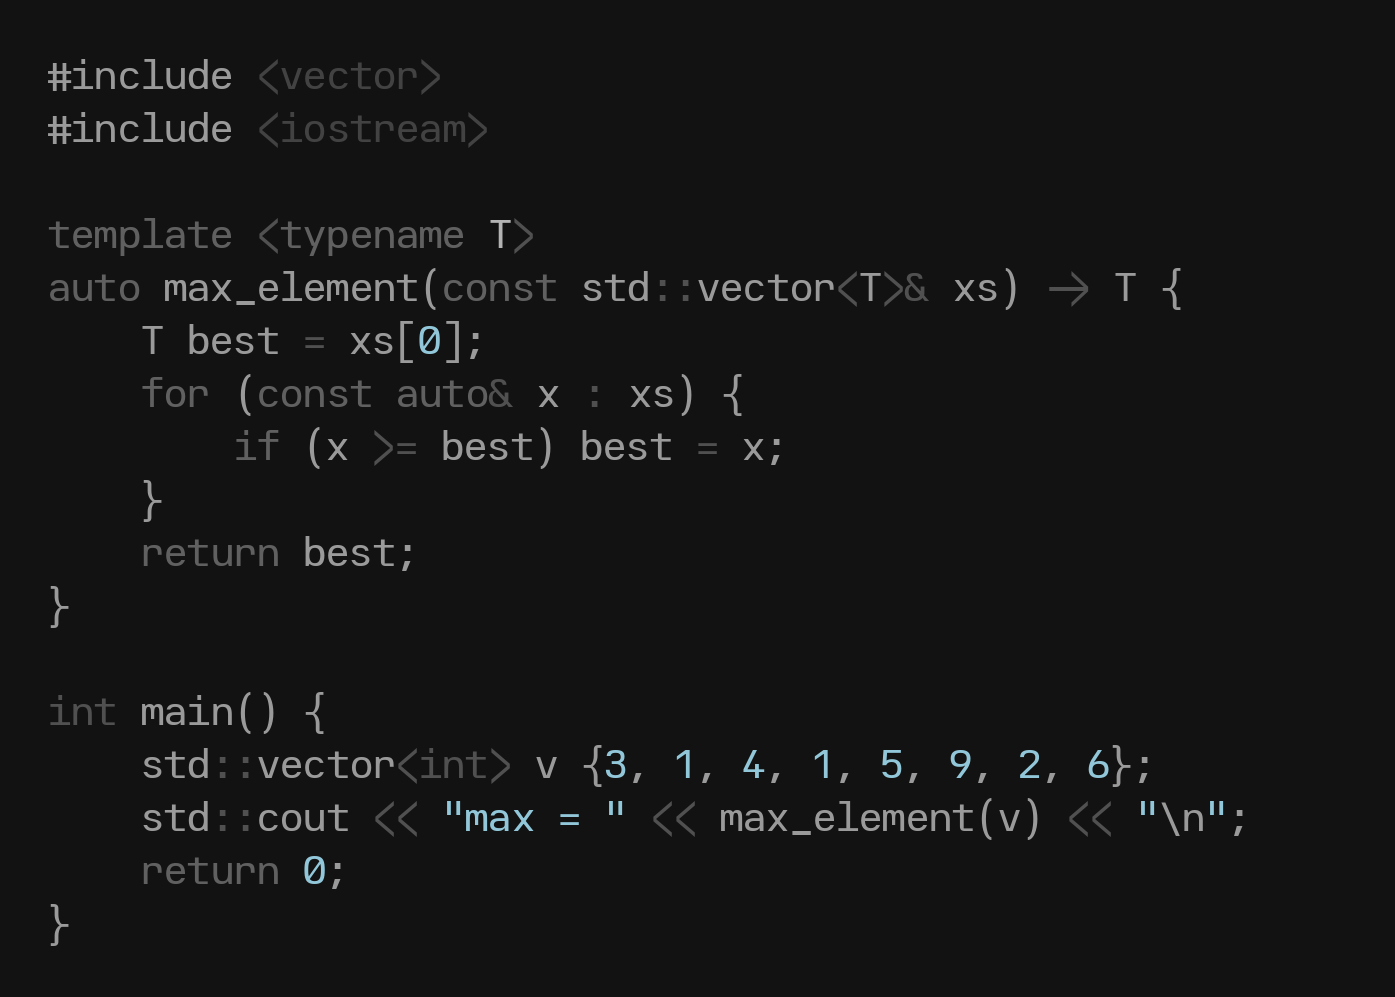
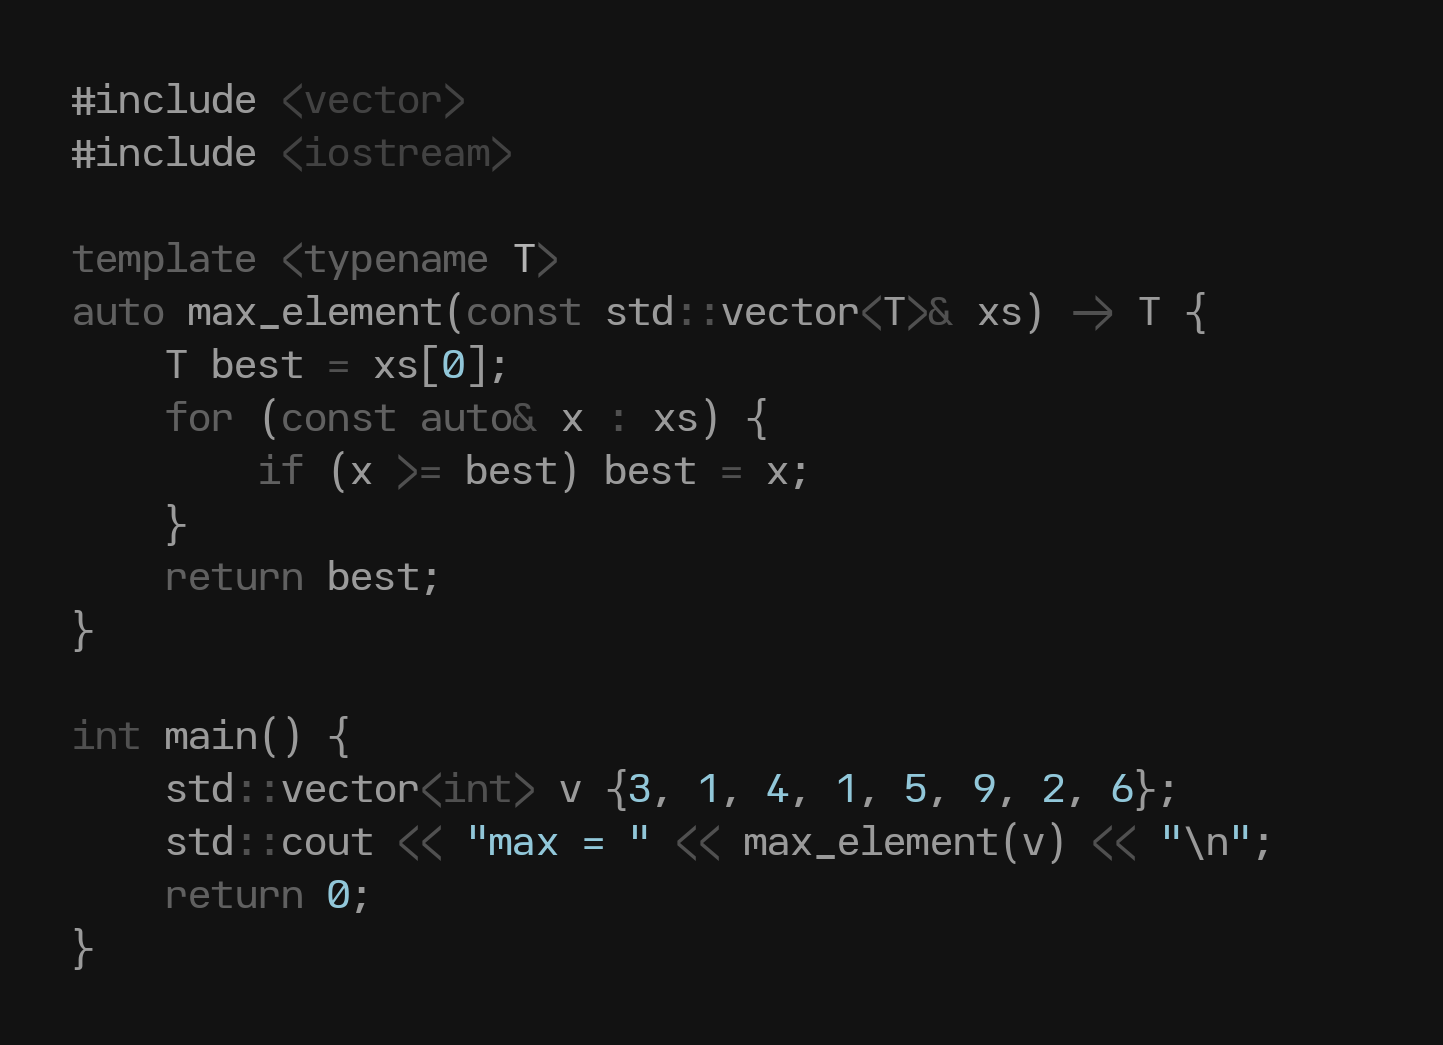
add: extra samples

diff --git a/src/scripts/samples.py b/src/scripts/samples.py
@@ -11,11 +11,18 @@ from PIL import Image, ImageDraw, ImageFont
 from pygments import highlight
 from pygments.filters import TokenMergeFilter
 from pygments.formatters import ImageFormatter
-from pygments.lexers import CppLexer, HaskellLexer, PythonLexer
+from pygments.lexers import (
+    CppLexer,
+    HaskellLexer,
+    MarkdownLexer,
+    PythonLexer,
+    TextLexer,
+)
 from pygments.style import Style
 from pygments.token import (
     Comment,
     Error,
+    Generic,
     Keyword,
     Name,
     Number,
@@ -70,48 +77,57 @@ class GravityNoirStyle(Style):
     highlight_color = NOIR_8
 
     styles = {
-        Text:                       FG,
-
-        Comment:                    f"italic {NOIR_7}",
-        Comment.Preproc:            NOIR_2,
-
-        Keyword:                    NOIR_5,
-        Keyword.Constant:           PRIMARY,                   # True / False / None
-        Keyword.Namespace:          NOIR_6,                    # import / from
-        Keyword.Pseudo:             NOIR_5,
-        Keyword.Reserved:           NOIR_5,
-        Keyword.Type:               NOIR_6,
-
-        Operator:                   NOIR_6,
-        Operator.Word:              NOIR_5,                    # and / or / not
-
-        Punctuation:                NOIR_2,
-
-        Name:                       NOIR_2,
-        Name.Function:              f"bold {FG}",
-        Name.Function.Magic:        f"bold {NOIR_2}",
-        Name.Class:                 NOIR_1,
-        Name.Builtin:               NOIR_2,
-        Name.Builtin.Pseudo:        NOIR_2,                    # self / cls
-        Name.Decorator:             f"bold {PRIMARY}",
-        Name.Namespace:             NOIR_2,
-        Name.Variable:              NOIR_2,
-        Name.Variable.Magic:        NOIR_2,                    # __name__ / __init__
-        Name.Constant:              NOIR_2,
-        Name.Attribute:             NOIR_2,
-        Name.Tag:                   NOIR_6,
-        Name.Exception:             NOIR_2,
-
-        String:                     PRIMARY,
-        String.Doc:                 f"italic {PRIMARY}",
-        String.Escape:              NOIR_2,
-        String.Interpol:            NOIR_2,
-        String.Affix:               NOIR_5,                    # f / r / b prefix
-
-        Number:                     PRIMARY,
-
-        Error:                      PRIMARY,
+        Text: FG,
+        Comment: f"italic {NOIR_7}",
+        Comment.Preproc: NOIR_2,
+        Keyword: NOIR_5,
+        Keyword.Constant: PRIMARY,  # True / False / None
+        Keyword.Namespace: NOIR_6,  # import / from
+        Keyword.Pseudo: NOIR_5,
+        Keyword.Reserved: NOIR_5,
+        Keyword.Type: NOIR_6,
+        Operator: NOIR_6,
+        Operator.Word: NOIR_5,  # and / or / not
+        Punctuation: NOIR_2,
+        Name: NOIR_2,
+        Name.Function: f"bold {FG}",
+        Name.Function.Magic: f"bold {NOIR_2}",
+        Name.Class: NOIR_1,
+        Name.Builtin: NOIR_2,
+        Name.Builtin.Pseudo: NOIR_2,  # self / cls
+        Name.Decorator: f"bold {PRIMARY}",
+        Name.Namespace: NOIR_2,
+        Name.Variable: NOIR_2,
+        Name.Variable.Magic: NOIR_2,  # __name__ / __init__
+        Name.Constant: NOIR_2,
+        Name.Attribute: NOIR_2,
+        Name.Tag: NOIR_6,
+        Name.Exception: NOIR_2,
+        String: PRIMARY,
+        String.Doc: f"italic {PRIMARY}",
+        String.Escape: NOIR_2,
+        String.Interpol: NOIR_2,
+        String.Affix: NOIR_5,  # f / r / b prefix
+        Number: PRIMARY,
+        Error: PRIMARY,
+        Generic.Heading: f"bold {FG_BRIGHT}",
+        Generic.Subheading: f"bold {NOIR_1}",
+        Generic.Strong: f"bold {FG}",
+        Generic.Emph: f"italic {NOIR_2}",
+        Generic.Inserted: PRIMARY,
+        Generic.Deleted: CONTRAST,
     }
+
+
+SAMPLE_CHAR = """\
+LETTERS
+——————————————————————————
+ABCDEFGHIJKLMNOPQRSTUVWXYZ abcdefghijklmnopqrstuvwxyz
+
+NUMBERS
+——————————————————————————
+0123456789
+"""
 
 
 SAMPLE_1 = '''\
@@ -128,7 +144,7 @@ if __name__ == "__main__":
 '''
 
 
-SAMPLE_2 = '''\
+SAMPLE_2 = """\
 #include <vector>
 #include <iostream>
 
@@ -146,10 +162,10 @@ int main() {
     std::cout << "max = " << max_element(v) << "\\n";
     return 0;
 }
-'''
+"""
 
 
-SAMPLE_3 = '''\
+SAMPLE_3 = """\
 module Fib where
 
 import Data.List (foldl\\')
@@ -166,10 +182,10 @@ main = do
   let xs = take 10 fibs
   mapM_ print xs
   putStrLn $ "10! = " ++ show (fact 10)
-'''
+"""
 
 
-def _lexer(cls):
+def _lexer(cls=TextLexer):
     """Build a lexer with adjacent same-type tokens merged so `->`, `==`, etc.
     survive into a single draw.text() call where HarfBuzz can ligate them."""
     lex = cls()
@@ -178,6 +194,7 @@ def _lexer(cls):
 
 
 SAMPLES = [
+    ("sample_char.png", _lexer(), SAMPLE_CHAR),
     ("sample_1.png", _lexer(PythonLexer), SAMPLE_1),
     ("sample_2.png", _lexer(CppLexer), SAMPLE_2),
     ("sample_3.png", _lexer(HaskellLexer), SAMPLE_3),
@@ -185,7 +202,7 @@ SAMPLES = [
 
 
 FONT_SIZE = 40
-IMAGE_PAD = 48
+IMAGE_PAD = 72
 LINE_PAD = 12
 TARGET_CHARS = 56
 
@@ -200,8 +217,10 @@ def _target_image_width(font_path):
 def render_sample(output, lexer, code, font_path, target_width):
     import io
 
+    bold_path = font_path.replace("-Regular", "-Bold")
     formatter = ImageFormatter(
         font_name=font_path,
+        font_name_bold=bold_path if os.path.exists(bold_path) else font_path,
         font_size=FONT_SIZE,
         line_numbers=False,
         style=GravityNoirStyle,
@@ -226,6 +245,110 @@ def render_sample(output, lexer, code, font_path, target_width):
     print(f"Saved {output} ({canvas.width}x{canvas.height})")
 
 
+LES_DRUS_DESCRIPTION = (
+    """\
+    Les Drus constituent deux pics d'une montagne des Alpes de Haute-Savoie, situés dans le massif du Mont-Blanc:
+
+        — le Grand Dru (3 754 m, point culminant) ;
+        — le Petit Dru (3 730 m), qui domine le Montenvers ;
+
+    Les noms des montagnes font partie des couches les plus anciennes des toponymes. La plupart du temps ils sont d'origine celte ou indo-européenne. Selon le linguiste Xavier Delamarre, pour les Celtes, la totalité du monde était symboliquement représentée par un arbre. Dans la langue gauloise, le mot le plus courant pour désigner cet arbre est dru. Les druides étaient ceux qui avaient "la connaissance de l'arbre" (dru, "arbre ou chêne", et uides, "savoir").
+
+    Les Drus se dressent sur l'arête ouest qui descend de l'aiguille Verte. Ils se prolongent par l'arête des Flammes de Pierre. Ils présentent une face nord caractérisée en leur centre par une niche occupée par un névé suspendu ainsi qu'une face sud-est. Leur face ouest, tout en granite, est particulièrement compacte, séparée de la face nord par l'arête nord-ouest qui, avec le pilier sud-ouest (aussi appelé pilier Bonatti), encadre la large face ouest des Drus.
+
+    Comme la plupart des sommets du massif du Mont-Blanc, les roches constituant les Drus sont formées d'une variété de granite appelée protogine.
+
+    Pierre Allain, lors de l'ascension de la face nord des Drus, estima qu'il serait sans doute impossible de gravir un jour le versant ouest. Pourtant, dès 1952, le défi est relevé par A. Dagory, Guido Magnone, Lucien Bérardini et M. Lainé, en deux assauts successifs (1er au 5 juillet puis 17 au 19 juillet 1952). Cette tentative exige l'emploi intensif des techniques de l'escalade artificielle. Dès lors, un nouvel épisode de l'histoire des Drus commence.
+
+    Du 17 au 22 août 1955, l'Italien Walter Bonatti escalade, seul, le pilier sud-ouest avec cinq bivouacs dans la face. Cette ascension est considérée comme un des plus grands exploits de l'histoire de l'alpinisme. En 2001 Jean-Christophe Lafaille ouvre une nouvelle voie en solitaire par la technique de l'escalade artificielle.
+
+    Sept ans après Walter Bonatti, Gary Hemming et Royal Robbins, deux grimpeurs venus des États-Unis, inaugurent une très importante variante menant directement de la base de la face au bloc coincé, dans la moitié supérieure, où elle rejoint la voie de 1952. Ouverte du 24 au 26 juillet 1962, cette voie est baptisée la directe américaine et devint par la suite une grande classique. Ce n'est pas le cas de l'autre directe, toujours américaine, tracée en plein centre de la face par le même Royal Robbins, accompagné cette fois de John Harlin (10 au 13 août 1965). Extrêmement difficile, tant dans le domaine de l'escalade artificielle que de l'escalade libre, cette directissime américaine fut relativement peu répétée.
+    """
+)
+
+
+def render_composition(output, font_path, target_width):
+    composition_width = target_width * 2
+    col_gap = 80
+    usable_w = composition_width - 2 * IMAGE_PAD - col_gap
+    left_col_w = usable_w * 0.55
+    right_col_w = usable_w - left_col_w
+    ascii_inner_pad = 80  # padding inside the right column around the ASCII
+
+    title_size = 29
+
+    with open("assets/ascii.txt") as f:
+        ascii_lines = f.read().rstrip("\n").splitlines()
+
+    # Auto-size font so the widest ASCII line fits inside the right column with
+    # `ascii_inner_pad` of breathing room on each side; the body uses the same
+    # size so text and ASCII share visual weight.
+    max_ascii_cols = max(len(line) for line in ascii_lines)
+    probe = ImageFont.truetype(font_path, 100)
+    advance_ratio = probe.getlength("M") / 100
+    body_size = int(
+        (right_col_w - 2 * ascii_inner_pad) / max_ascii_cols / advance_ratio
+    )
+    ascii_size = body_size
+    body_leading = int(body_size * 1.5)
+    ascii_leading = ascii_size + 2
+
+    bold_path = font_path.replace("-Regular", "-Bold")
+    title_font = ImageFont.truetype(
+        bold_path if os.path.exists(bold_path) else font_path, title_size
+    )
+    body_font = ImageFont.truetype(font_path, body_size)
+    ascii_font = ImageFont.truetype(font_path, ascii_size)
+
+    ascii_char_w = ascii_font.getlength("M")
+    ascii_w = int(round(ascii_char_w * max_ascii_cols))
+    ascii_h = len(ascii_lines) * ascii_leading
+
+    body_char_w = body_font.getlength("M")
+    body_cols = max(20, int(left_col_w // body_char_w))
+
+    import textwrap
+
+    wrapped = []
+    for para in LES_DRUS_DESCRIPTION.split("\n"):
+        wrapped.extend(textwrap.wrap(para, width=body_cols) or [""])
+
+    title_h = title_size + 32
+    body_h = len(wrapped) * body_leading
+    left_h = title_h + body_h
+    img_h = max(left_h, ascii_h) + 2 * IMAGE_PAD
+
+    img = Image.new("RGB", (composition_width, img_h), BG)
+    draw = ImageDraw.Draw(img)
+
+    x = IMAGE_PAD
+    y = IMAGE_PAD
+    draw.text((x, y), "Les Drus", font=title_font, fill=PRIMARY_BRIGHT)
+    y += title_h
+    rule_y = y + 16
+    draw.line(
+        [(x, rule_y), (x + left_col_w, rule_y)],
+        fill=PRIMARY_BRIGHT,
+        width=2,
+    )
+    y = rule_y + int(title_h * 0.6)
+    for line in wrapped:
+        draw.text((x, y), line, font=body_font, fill=FG)
+        y += body_leading
+
+    right_col_left = IMAGE_PAD + left_col_w + col_gap
+    right_col_h = img_h - 2 * IMAGE_PAD
+    ax = right_col_left + (right_col_w - ascii_w) // 2
+    ay = IMAGE_PAD + (right_col_h - ascii_h) // 2
+    for line in ascii_lines:
+        draw.text((ax, ay), line, font=ascii_font, fill=FG)
+        ay += ascii_leading
+
+    os.makedirs(os.path.dirname(output), exist_ok=True)
+    img.save(output)
+    print(f"Saved {output} ({img.width}x{img.height})")
+
+
 if __name__ == "__main__":
     parser = argparse.ArgumentParser(description="Generate code-sample PNGs")
     parser.add_argument(
@@ -248,3 +371,9 @@ if __name__ == "__main__":
             args.font,
             target_width,
         )
+
+    render_composition(
+        os.path.join(args.output_dir, "les_drus.png"),
+        args.font,
+        target_width,
+    )

diff --git a/README.md b/README.md
@@ -6,6 +6,8 @@ A compact neo-grotesk font designed for coding.
 
 ## Samples
 
+![python](assets/samples/les_drus.png)
+
 ## Code Samples
 
 ### Python
